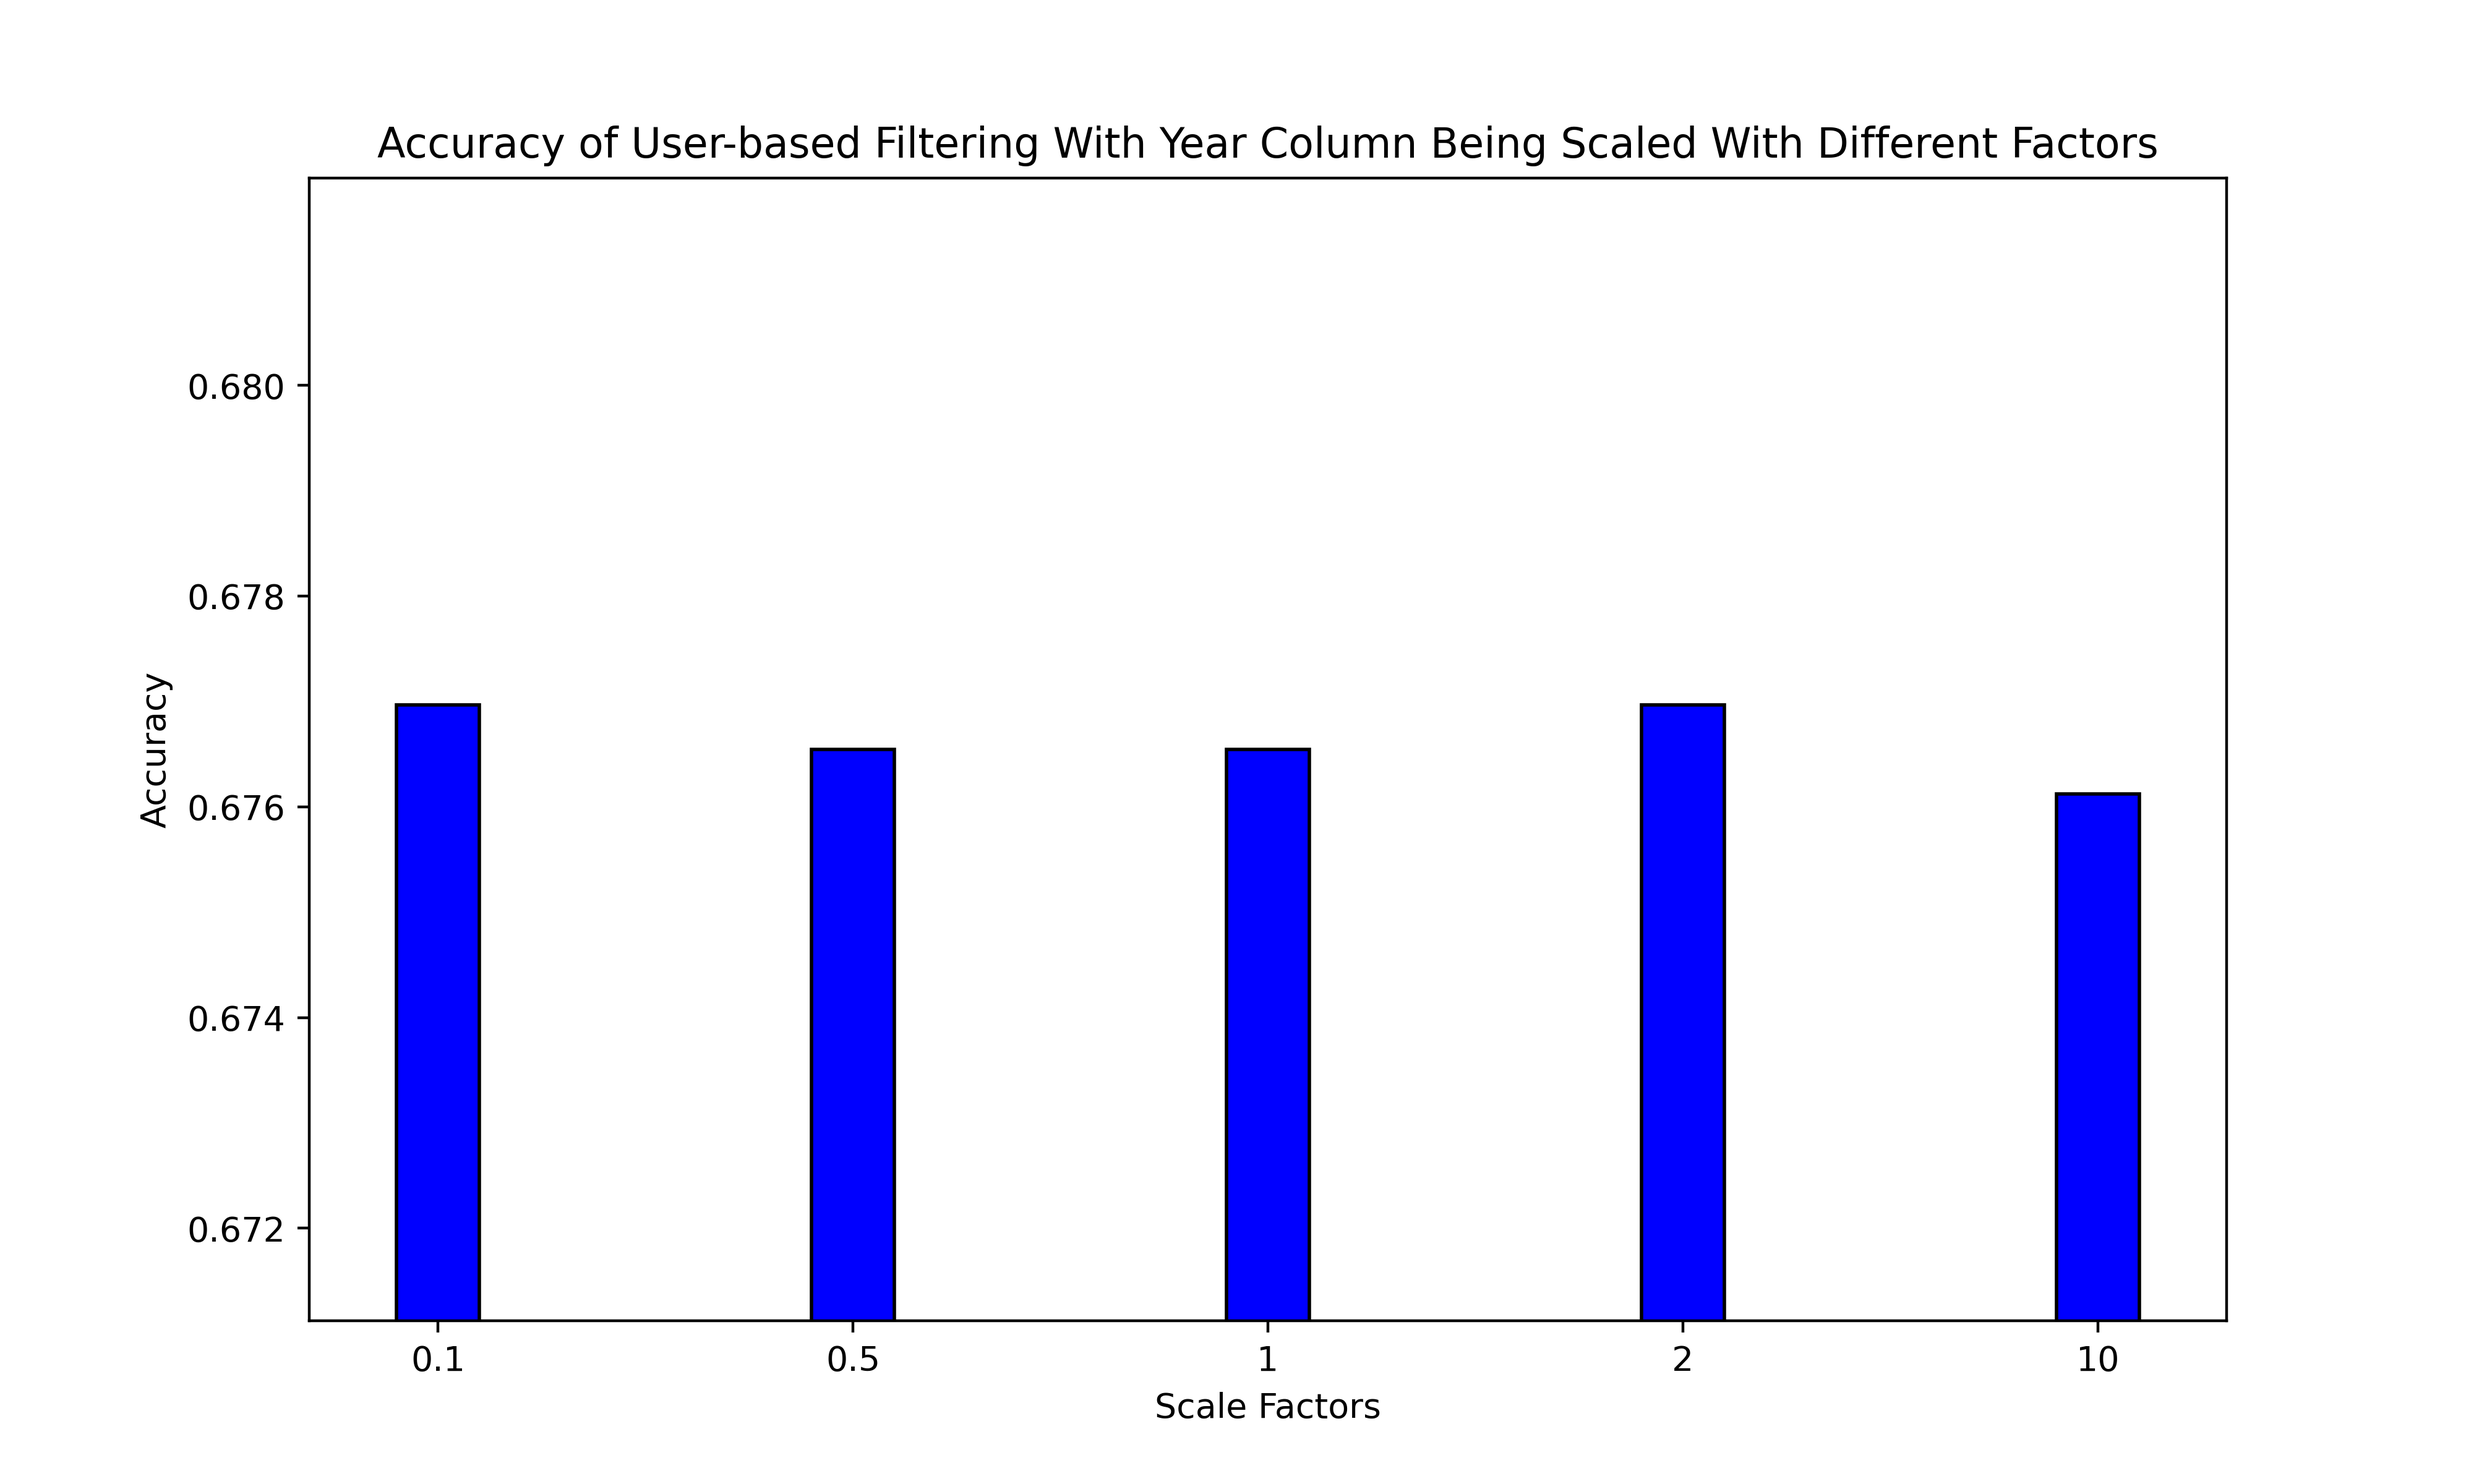
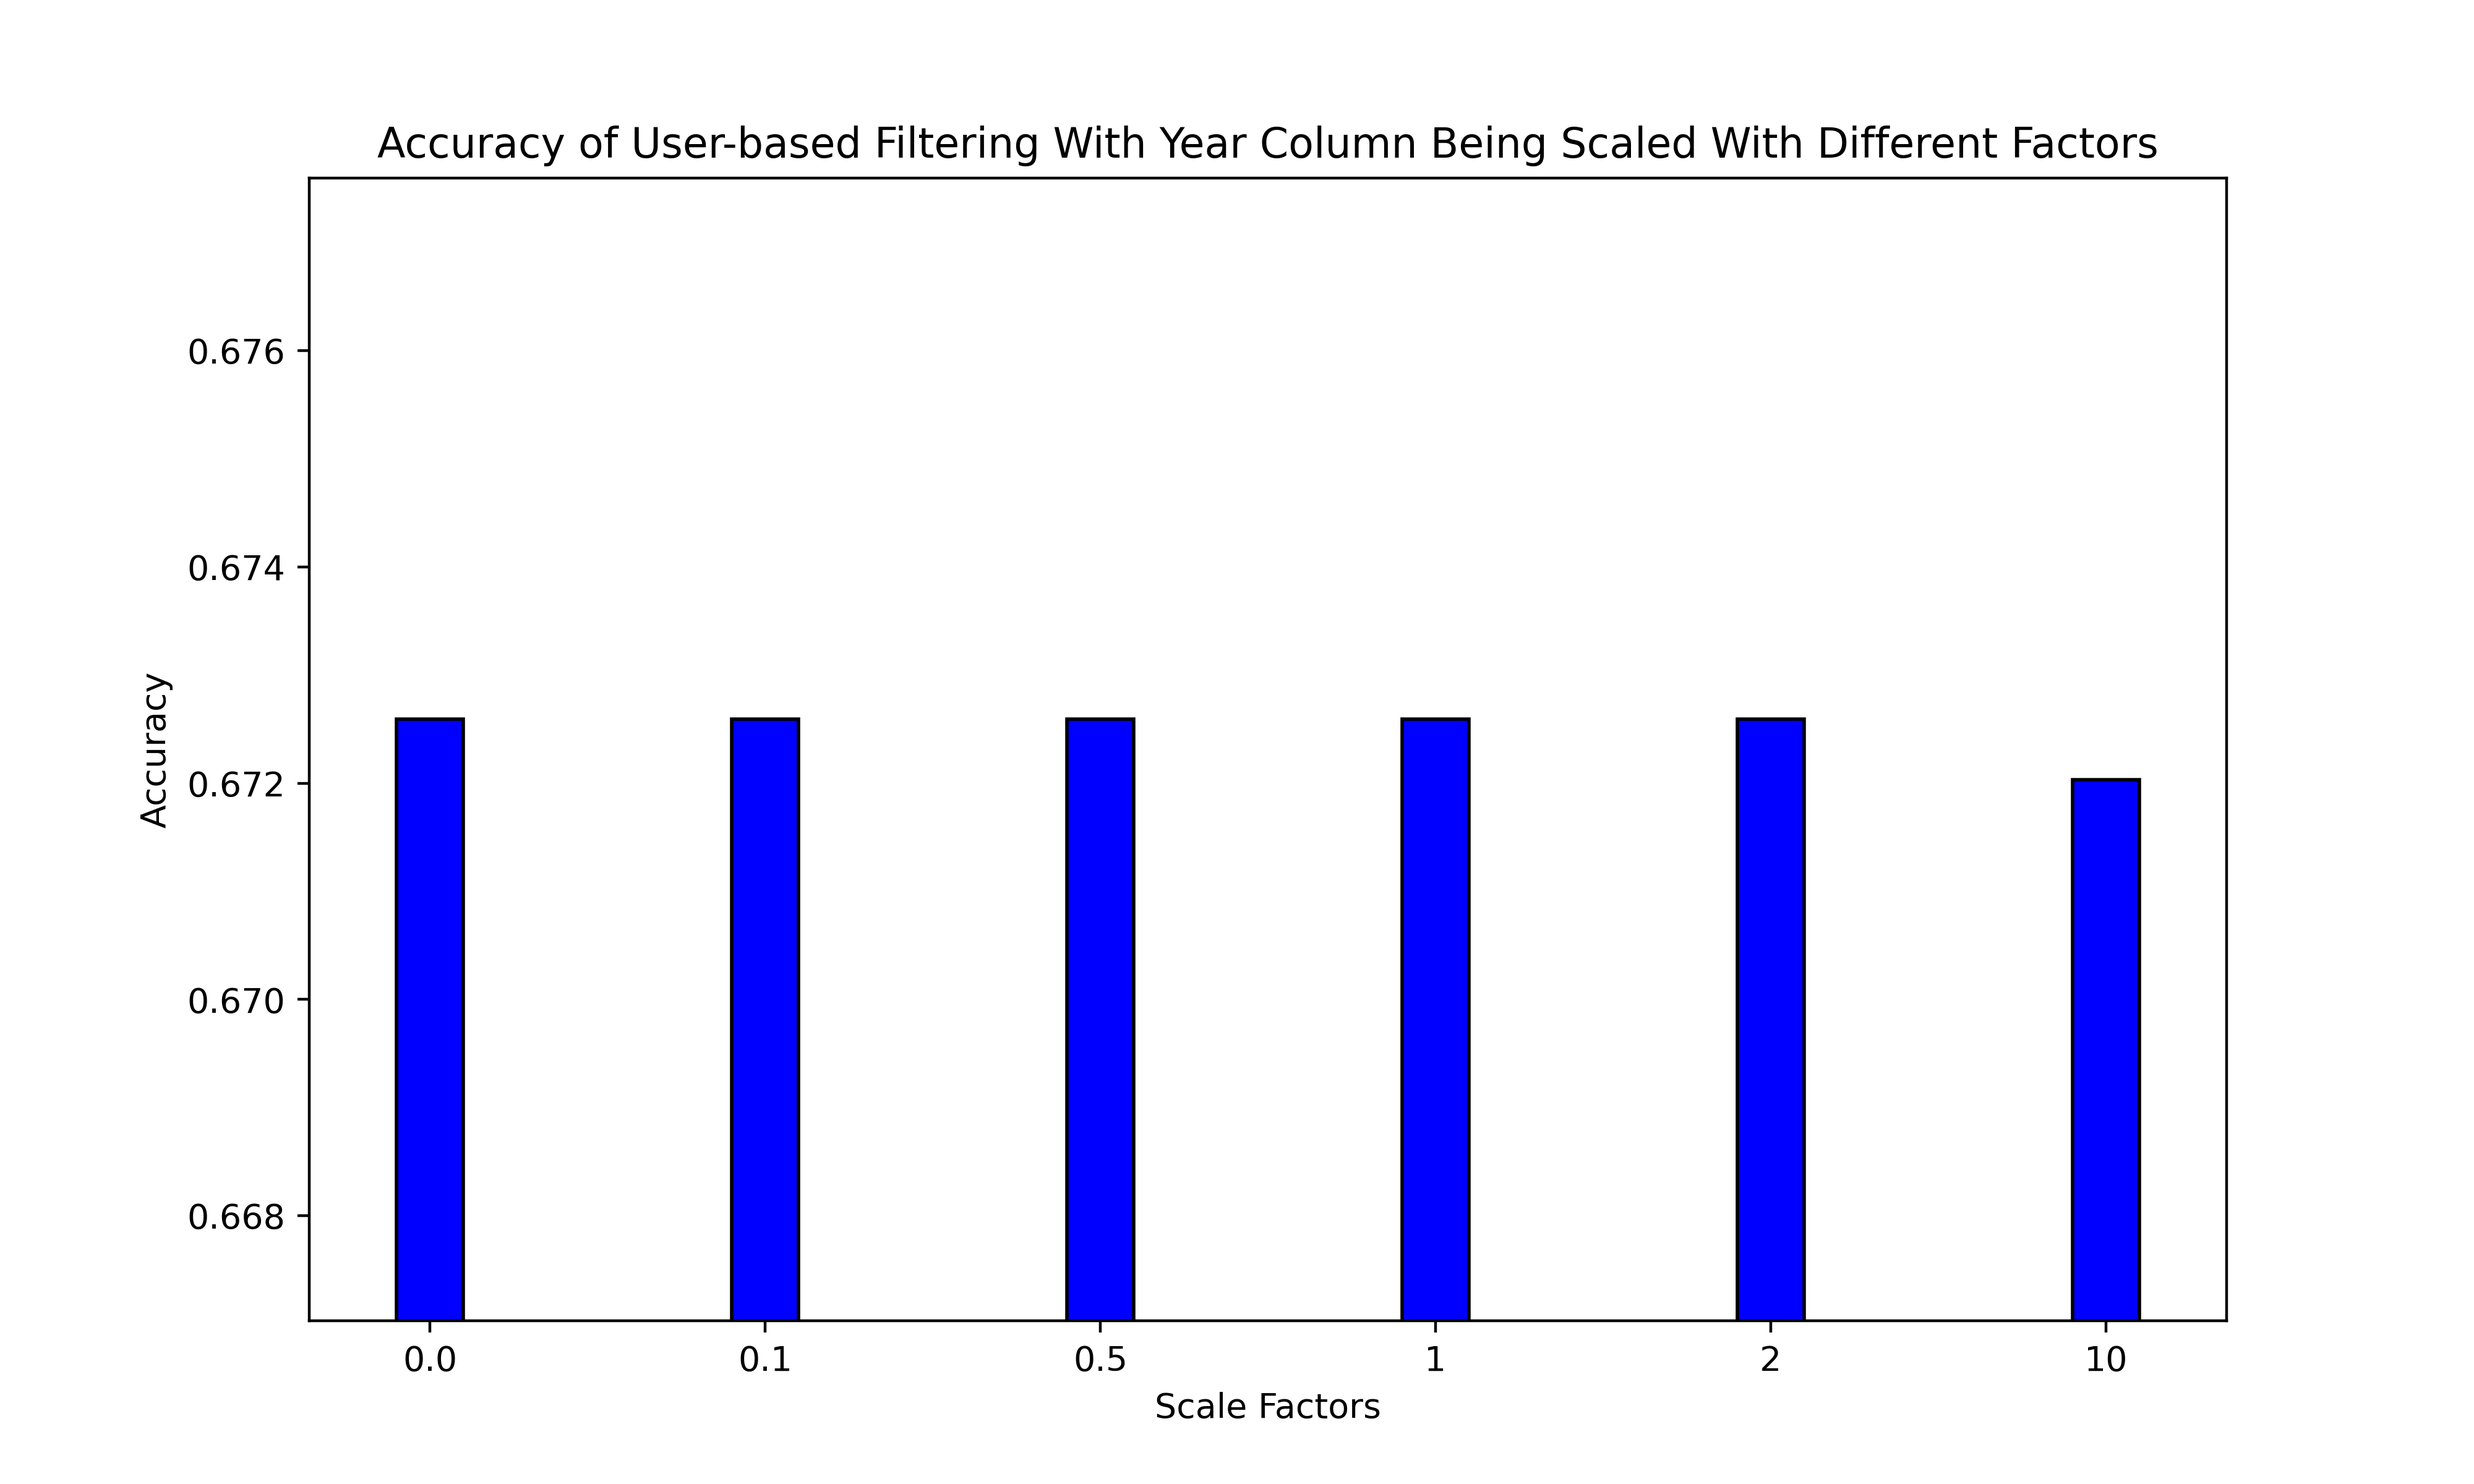
updated plotting

diff --git a/part_b/knn_modified.py b/part_b/knn_modified.py
@@ -183,7 +183,7 @@ def plot_accuracy(scale_factors, valid_acc, title, filename):
     plt.show()
 
 
-def test_year(year_array, sparse_matrix, val_data):
+def plot_pred_year(year_array, sparse_matrix, val_data):
     normalized_year_array = normalize_array(year_array)
     # month_array = get_month_array(student_meta_data)
 
@@ -210,7 +210,7 @@ def test_year(year_array, sparse_matrix, val_data):
         print(f"Validation Accuracy for k = {k_values[i]} is {valid_acc[i]:.4f}")
 
     # Scaled with year
-    scale_factors = [0.1, 0.5, 1, 2, 10]
+    scale_factors = [0.0, 0.1, 0.5, 1, 2, 10]
     valid_acc = []
     for scale_factor in scale_factors:
         new_sparse_matrix = append_data_as_new_question(
@@ -231,10 +231,10 @@ def test_year(year_array, sparse_matrix, val_data):
     )
 
 
-def test_month(month_array, sparse_matrix, val_data):
+def plot_pred_month(month_array, sparse_matrix, val_data):
     normalized_month_array = normalize_array(month_array)
     # Test normalized month with different scale factors for k = 11
-    scale_factors = [0.1, 0.5, 1, 2, 10]
+    scale_factors = [0.0, 0.1, 0.5, 1, 2, 10]
     valid_acc = []
     for scale_factor in scale_factors:
         # Create a copy of the sparse matrix
@@ -255,6 +255,39 @@ def test_month(month_array, sparse_matrix, val_data):
         "knn_modified_month_filtering",
     )
 
+def plot_pred_gender(sparse_matrix, student_meta_data, val_data):
+    normalized_gender_array = normalize_array(get_gender_array(student_meta_data))
+    scale_factors = [0.0, 0.1, 0.5, 1, 2, 10]
+    valid_acc = []
+    for scale_factor in scale_factors:
+        new_sparse_matrix = append_data_as_new_question(
+            sparse_matrix, scale_array(normalized_gender_array, scale_factor)
+        )
+        valid_acc.append(knn_impute_by_user(new_sparse_matrix, val_data, 11))
+
+    plot_accuracy(
+        scale_factors,
+        valid_acc,
+        "Accuracy of User-based Filtering With Gender Column For Various Scale Factors",
+        "knn_modified_gender_filtering",
+    )
+
+def plot_pred_premium(sparse_matrix, student_meta_data, val_data):
+    normalized_premium_array = normalize_array(get_premium_array(student_meta_data))
+    scale_factors = [0.0, 0.1, 0.5, 1.0, 2.0, 10.0]
+    valid_acc = []
+    for scale_factor in scale_factors:
+        new_sparse_matrix = append_data_as_new_question(
+            sparse_matrix, scale_array(normalized_premium_array, scale_factor)
+        )
+        valid_acc.append(knn_impute_by_user(new_sparse_matrix, val_data, 11))
+
+    plot_accuracy(
+        scale_factors,
+        valid_acc,
+        "Accuracy of User-based Filtering With Premium Column For Various Scale Factors",
+        "knn_modified_premium_filtering",
+    )   
 
 def main():
     # Get the root of the project
@@ -265,14 +298,17 @@ def main():
     val_data = load_valid_csv(os.path.join(project_root, "data"))
     test_data = load_public_test_csv(os.path.join(project_root, "data"))
     student_meta_data = load_student_csv(os.path.join(project_root, "data"))
-    year_array = get_year_array(student_meta_data)
 
-    sparse_matrix = append_data_as_new_question(sparse_matrix, year_array)
-    test_year(year_array, sparse_matrix, val_data)
+    year_array = get_year_array(student_meta_data)
+    year_sparse_matrix = append_data_as_new_question(sparse_matrix, year_array)
+    plot_pred_year(year_array, year_sparse_matrix, val_data)
 
     month_array = get_month_array(student_meta_data)
-    sparse_matrix = append_data_as_new_question(sparse_matrix, month_array)
-    test_month(month_array, sparse_matrix, val_data)
+    month_sparse_matrix = append_data_as_new_question(sparse_matrix, month_array)
+    plot_pred_month(month_array, month_sparse_matrix, val_data)
+
+    plot_pred_gender(sparse_matrix, student_meta_data, val_data)
+    plot_pred_premium(sparse_matrix, student_meta_data, val_data)
 
     #####################################################################
     # TODO:                                                             #
